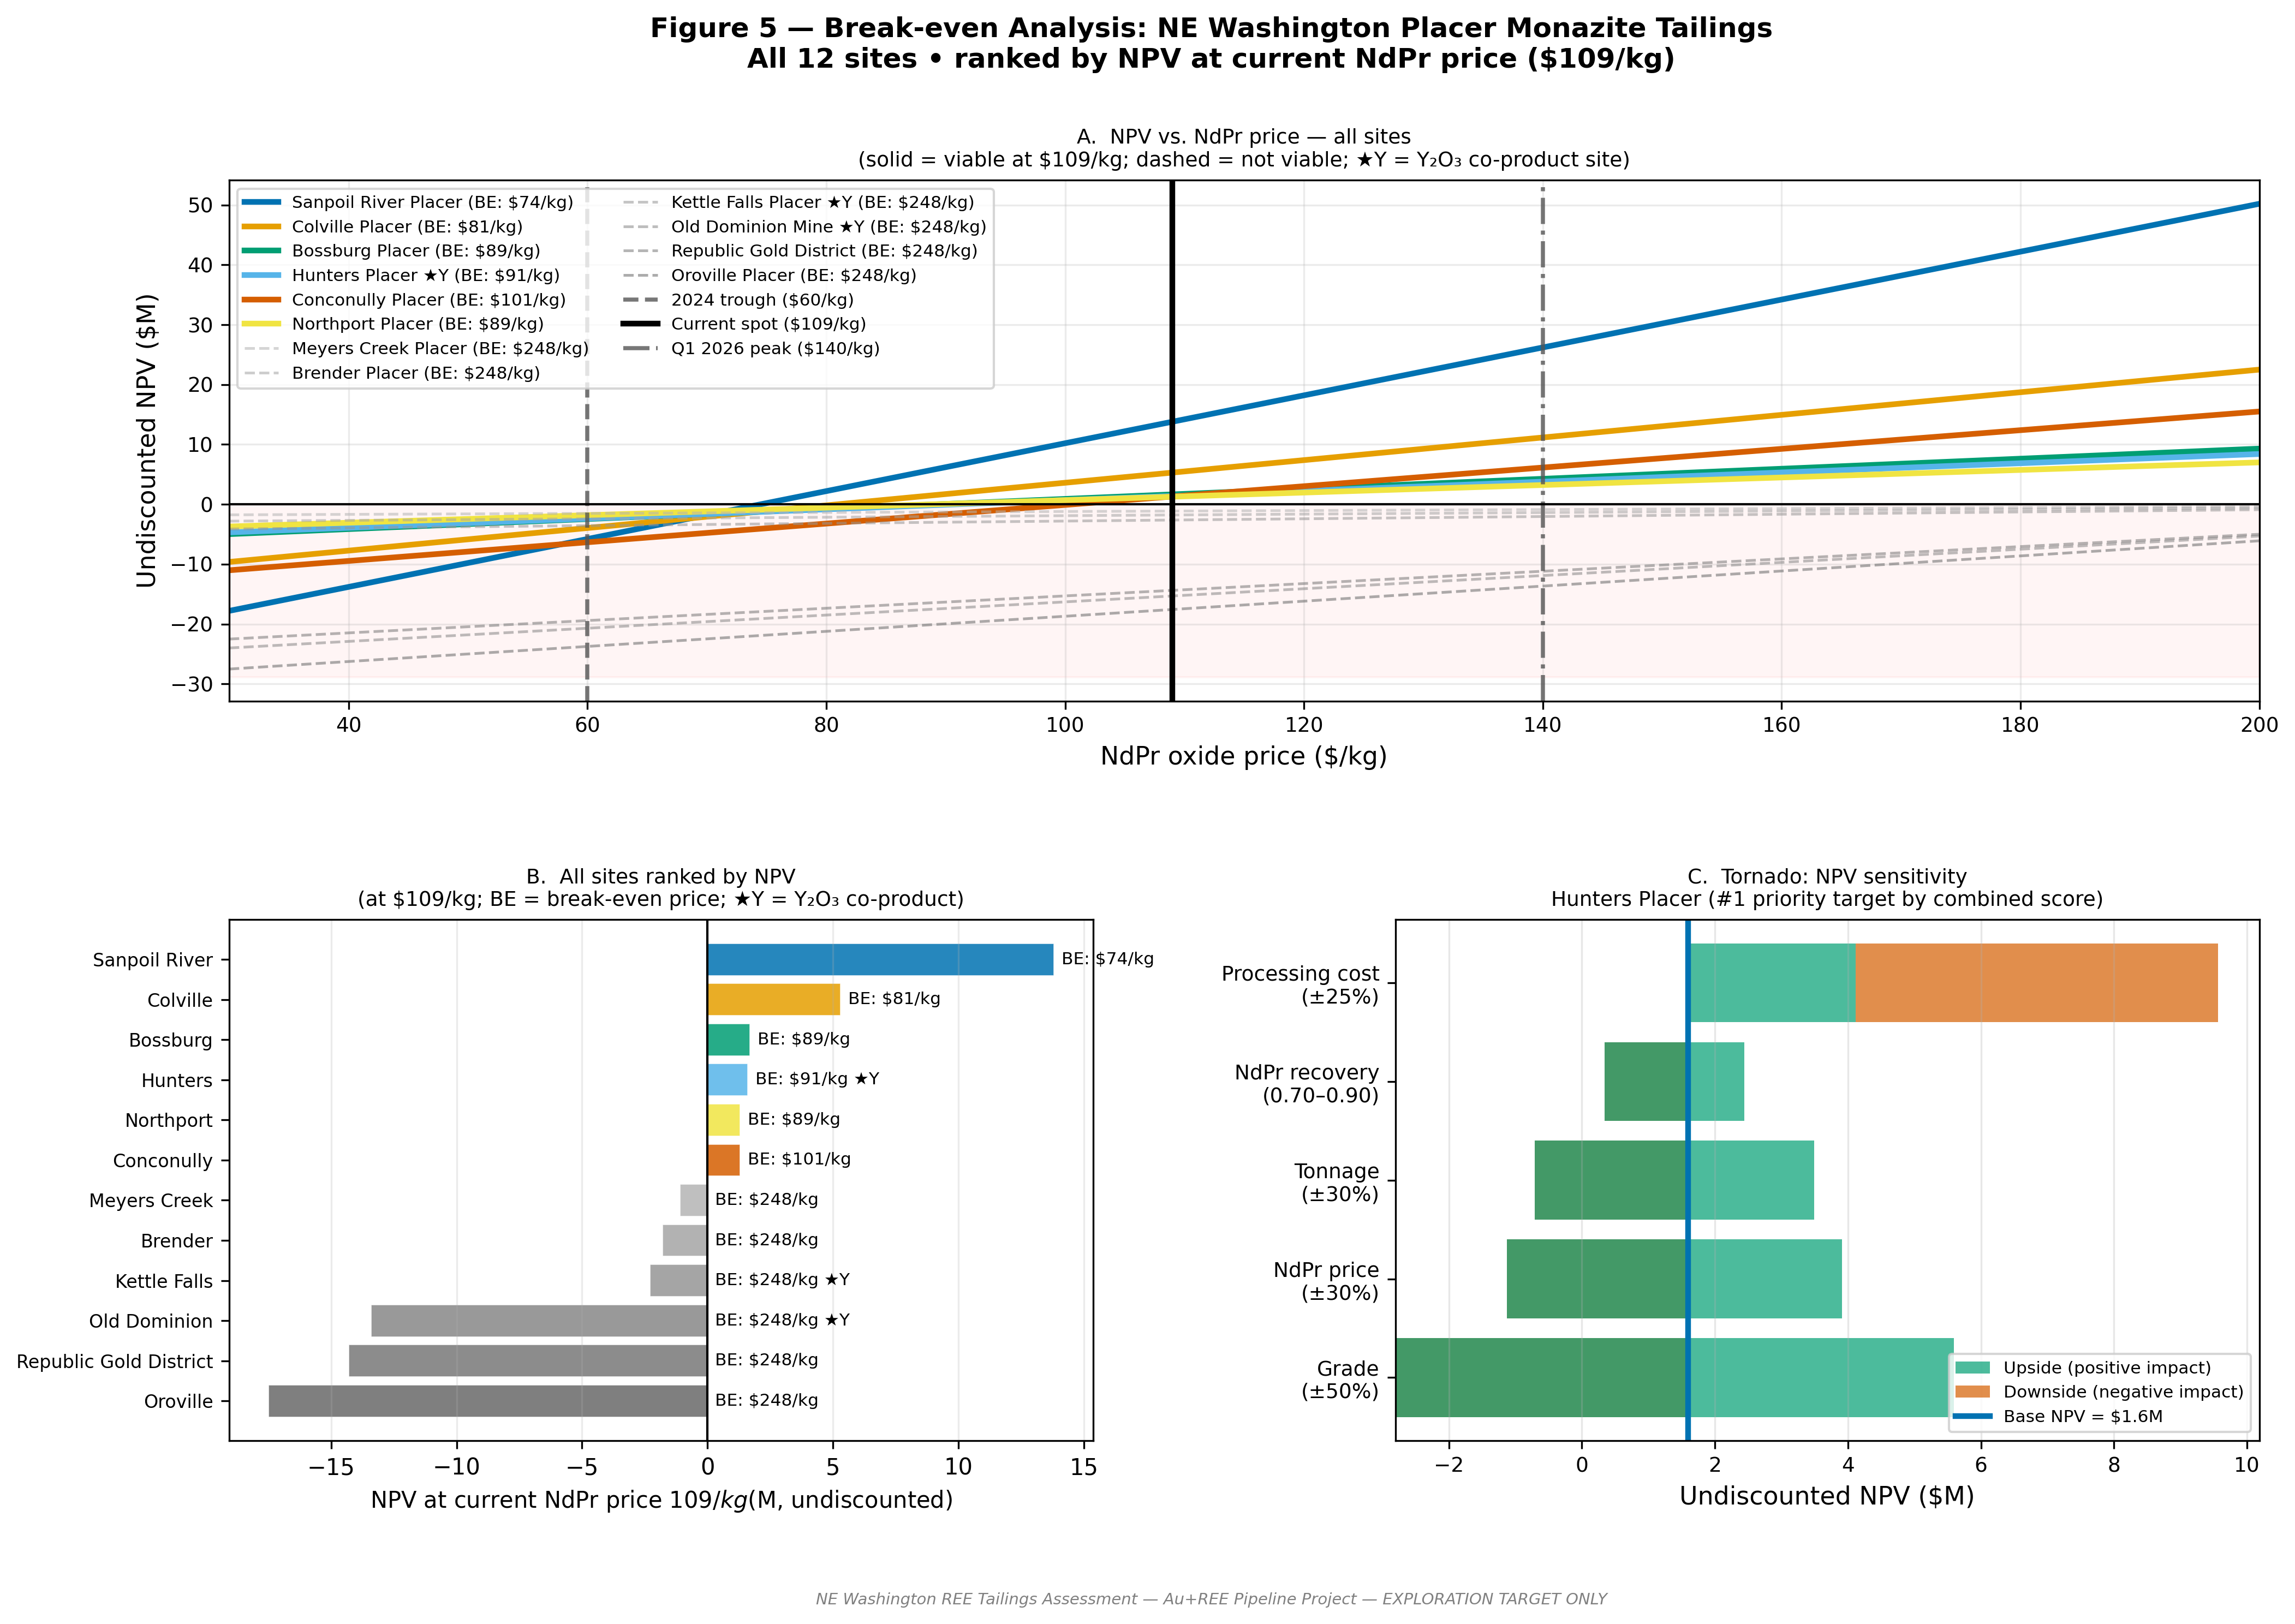
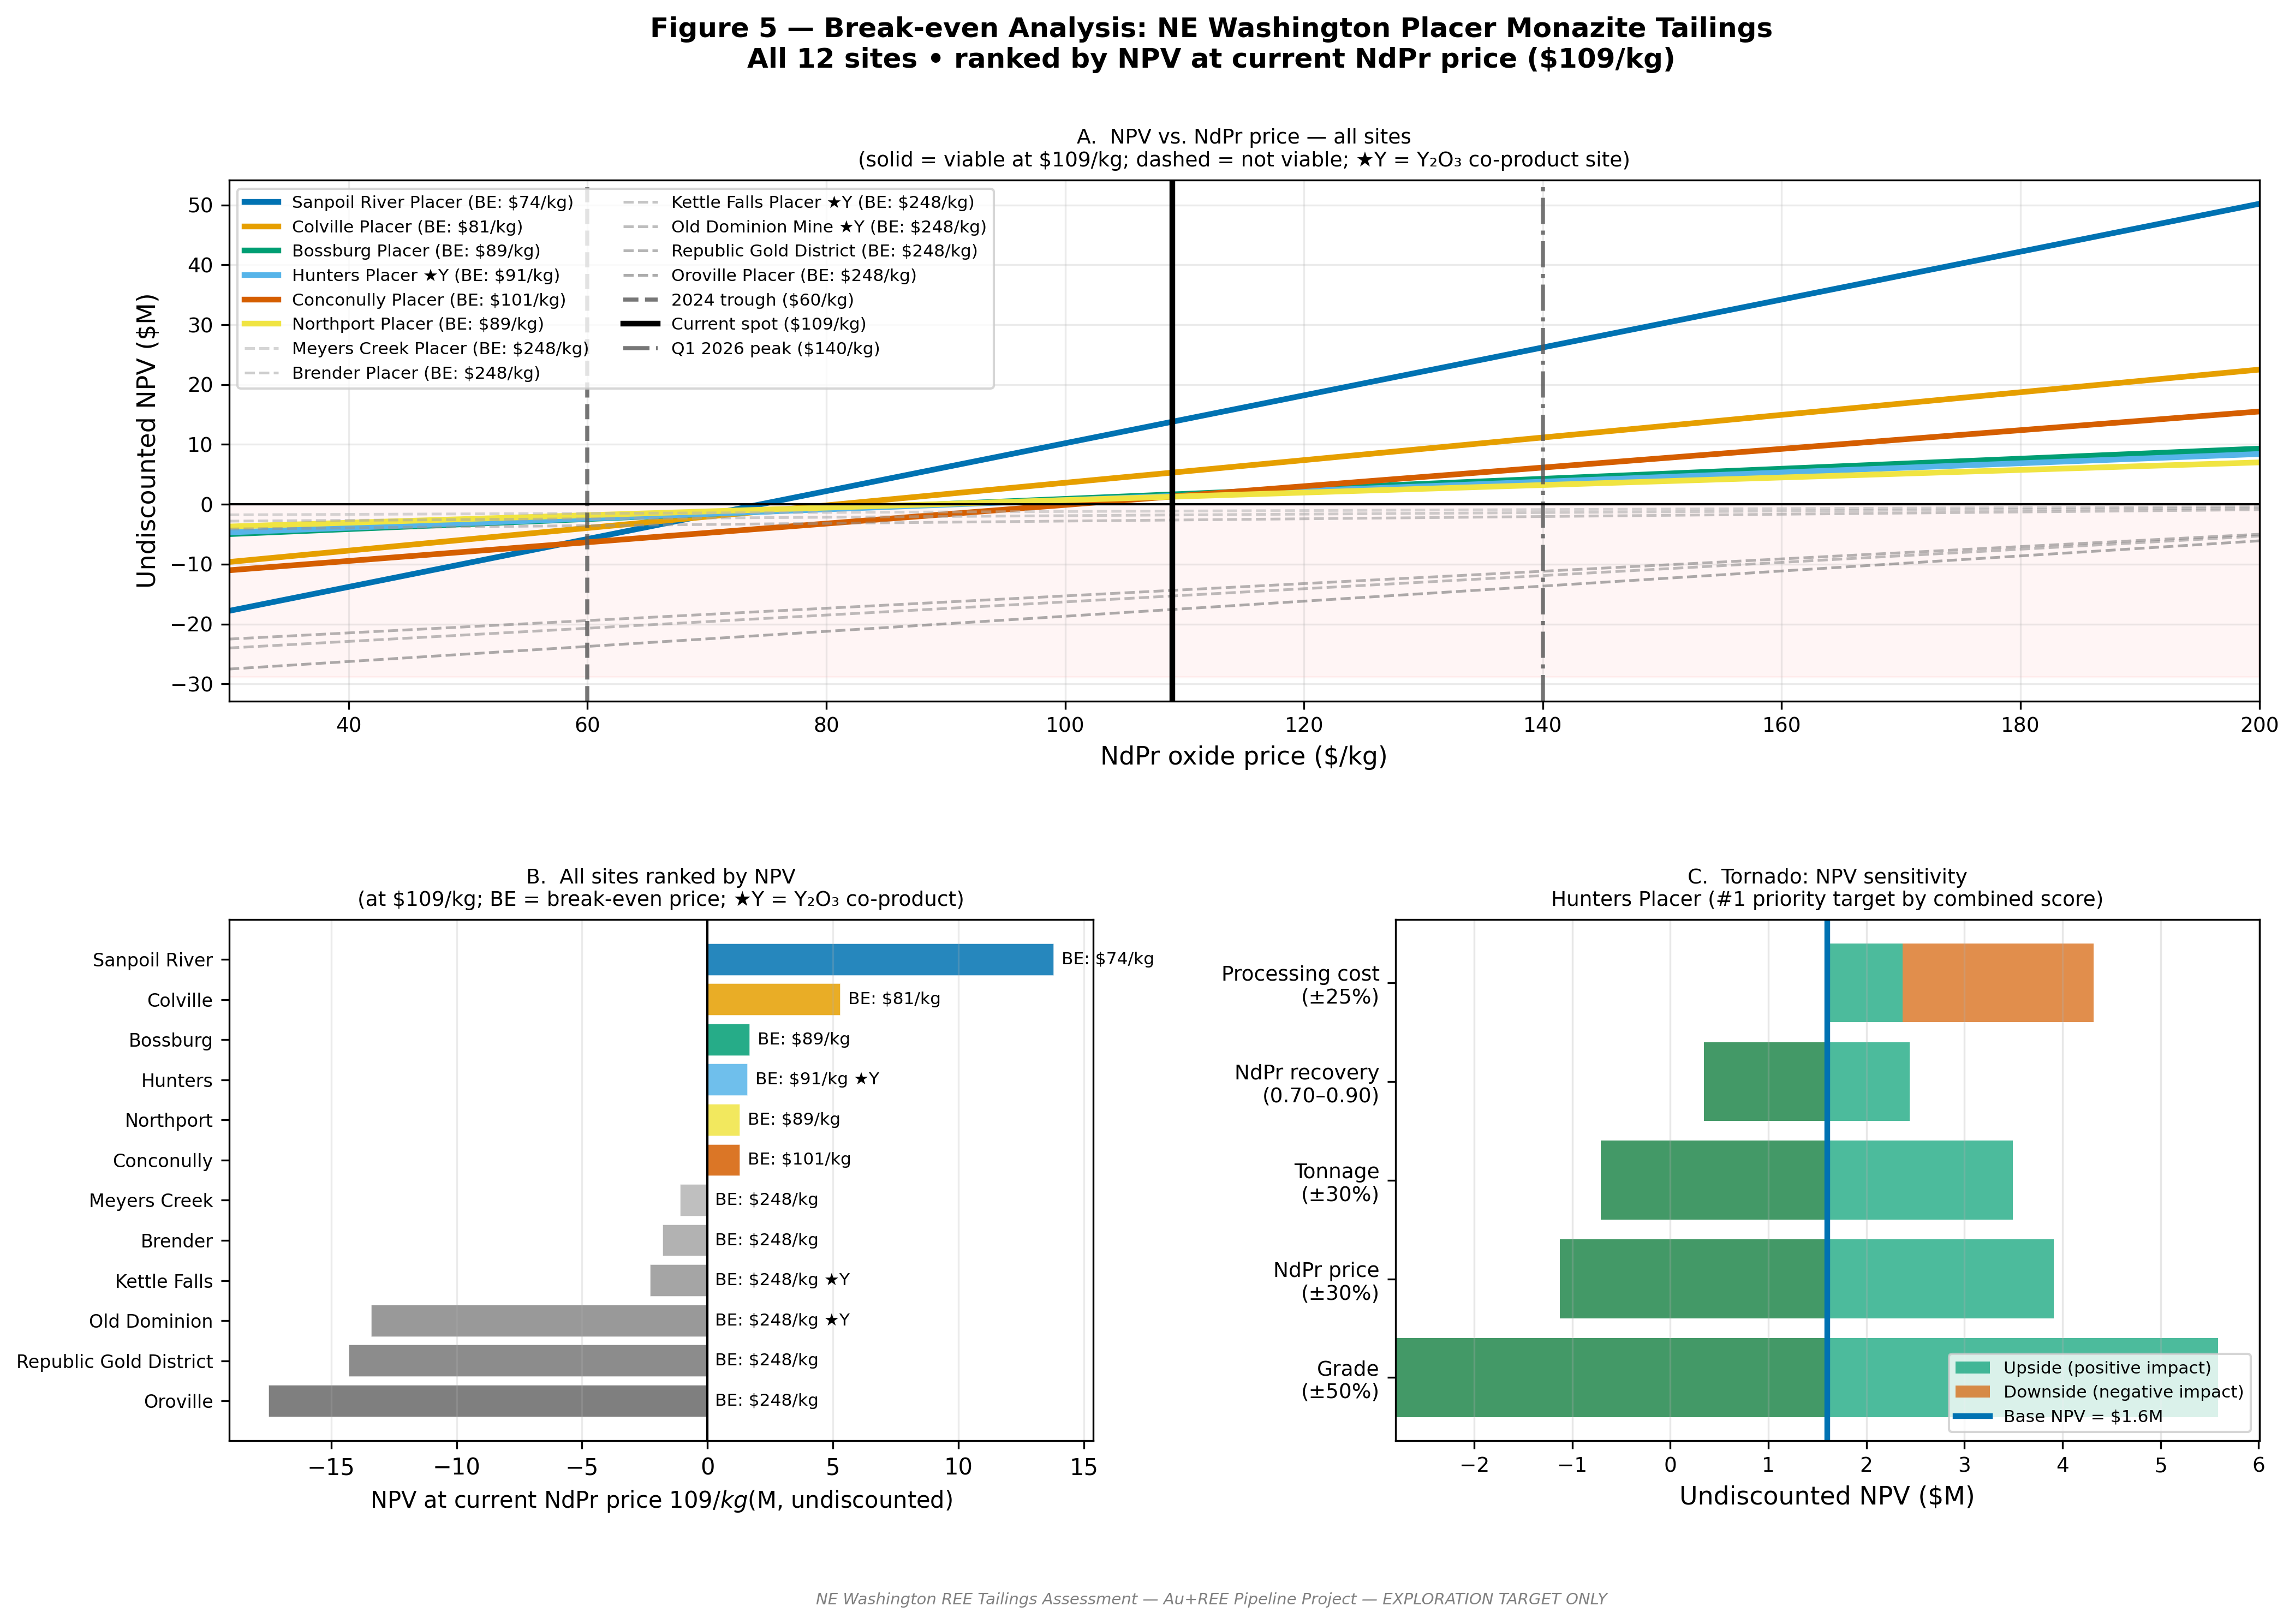
fix: sys.path for run_pipeline.py + updated output figures
run_pipeline.py was raising ModuleNotFoundError when invoked as
'python pipeline/run_pipeline.py' because the pipeline/ subdirectory
(not the repo root) was on sys.path. Added explicit repo-root insertion
so the command in the README works correctly.

Output figures regenerated after code fixes:
- fig5: processing cost tornado bars corrected (Hunters Placer range
  changed from -1.3→+4.1 M to +0.4→+2.4 M — old formula was scaling
  total_cost_base by 0.75/1.25 instead of adjusting only cost_processing)
- fig3: threshold label text positions updated (get_xlim() ternary removed)

Changed region(s): [[0.6542, 0.5625, 0.9658, 0.875], [0.9034, 0.5625, 0.9658, 0.6562]]

diff --git a/pipeline/run_pipeline.py b/pipeline/run_pipeline.py
@@ -14,6 +14,11 @@ import time
 import traceback
 from pathlib import Path
 
+# Ensure the repo root is on sys.path so `pipeline.*` imports resolve
+# regardless of whether the script is run as `python pipeline/run_pipeline.py`
+# or via `python -m pipeline.run_pipeline`.
+sys.path.insert(0, str(Path(__file__).parent.parent))
+
 import yaml
 
 